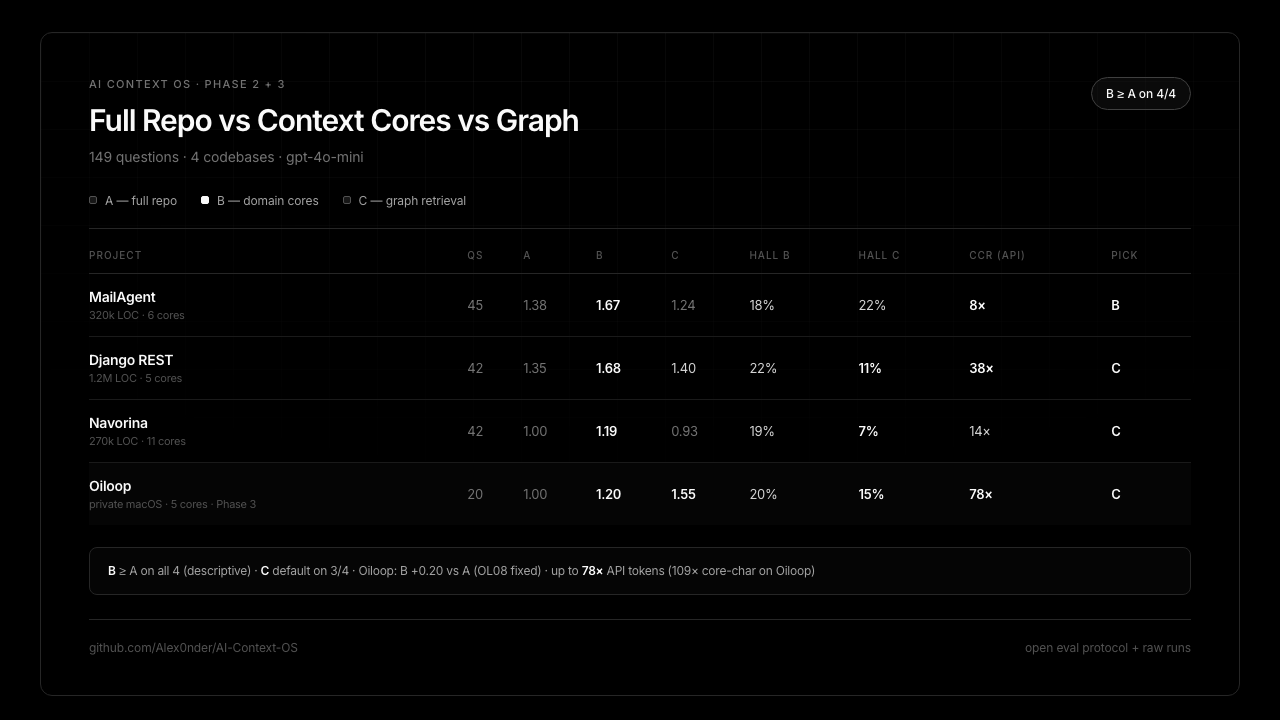
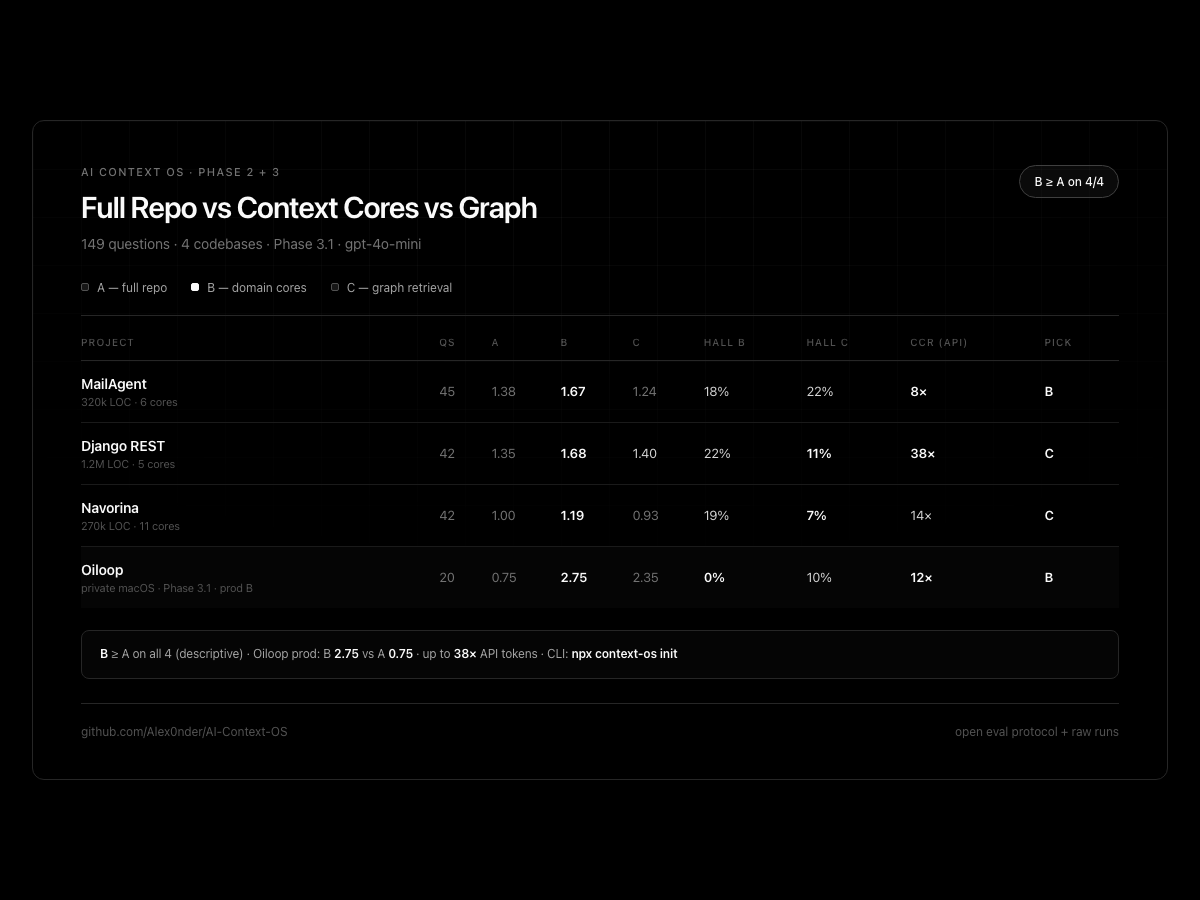
feat(cli): stats + cursor-rule commands, CI, updated twitter card
Add context size estimation and standalone Cursor rule install; refresh
Phase 3.1 Oiloop numbers on the twitter card PNG; GitHub Actions CLI smoke.

diff --git a/context-os/evaluations/phase-3-twitter-card.html b/context-os/evaluations/phase-3-twitter-card.html
@@ -155,7 +155,7 @@
         <div>
           <div class="eyebrow">AI Context OS · Phase 2 + 3</div>
           <div class="title">Full Repo vs Context Cores vs Graph</div>
-          <div class="meta">149 questions · 4 codebases · gpt-4o-mini</div>
+          <div class="meta">149 questions · 4 codebases · Phase 3.1 · gpt-4o-mini</div>
         </div>
         <div class="pill">B ≥ A on 4/4</div>
       </div>
@@ -215,22 +215,22 @@
             <td class="hi">C</td>
           </tr>
           <tr class="highlight">
-            <td><div class="name">Oiloop</div><div class="sub">private macOS · 5 cores · Phase 3</div></td>
+            <td><div class="name">Oiloop</div><div class="sub">private macOS · Phase 3.1 · prod B</div></td>
             <td class="dim">20</td>
-            <td class="dim">1.00</td>
-            <td class="hi">1.20</td>
-            <td class="hi">1.55</td>
-            <td>20%</td>
-            <td class="hi">15%</td>
-            <td class="hi">78×</td>
-            <td class="hi">C</td>
+            <td class="dim">0.75</td>
+            <td class="hi">2.75</td>
+            <td class="dim">2.35</td>
+            <td class="hi">0%</td>
+            <td>10%</td>
+            <td class="hi">12×</td>
+            <td class="hi">B</td>
           </tr>
         </tbody>
       </table>
 
       <div class="bar">
-        <strong>B</strong> ≥ A on all 4 (descriptive) · <strong>C</strong> default on 3/4 ·
-        Oiloop: B +0.20 vs A (OL08 fixed) · up to <strong>78×</strong> API tokens (109× core-char on Oiloop)
+        <strong>B</strong> ≥ A on all 4 (descriptive) · Oiloop prod: B <strong>2.75</strong> vs A <strong>0.75</strong> ·
+        up to <strong>38×</strong> API tokens · CLI: <strong>npx context-os init</strong>
       </div>
 
       <div class="foot">

diff --git a/packages/README.md b/packages/README.md
@@ -47,6 +47,19 @@ context-os route "How do we deploy?" --root .
 
 Checks manifest paths, core files exist, routing-map non-empty.
 
+### `context-os stats "<question>"`
+
+Sum character count of routed core `.md` files (~tokens ÷ 4). No API key.
+
+### `context-os cursor-rule`
+
+Install `.cursor/rules/context-os.mdc` on an existing repo (no scaffold overwrite).
+
+```bash
+context-os cursor-rule --target ~/Projects/MyApp
+context-os cursor-rule --variant oiloop --force
+```
+
 ### `context-os eval route`
 
 Routing F1 on `questions.json` — **no LLM, no API key**.

diff --git a/research/SYNTHESIS.md b/research/SYNTHESIS.md
@@ -101,4 +101,4 @@ Source: [human-blind-pilot-oiloop.csv](human-blind-pilot-oiloop.csv)
 
 - Phase 2: [PHASE-2-RESULTS.md](../context-os/evaluations/PHASE-2-RESULTS.md)
 - Phase 3.1: [PHASE-3-RESULTS.md](../context-os/evaluations/PHASE-3-RESULTS.md) · [PHASE-3.1-CLOSED.md](../experiments/oiloop/runs/run-1781660908/PHASE-3.1-CLOSED.md)
-- Visual: [phase-3-twitter-card.png](../context-os/evaluations/phase-3-twitter-card.png) *(update with Phase 3.1 numbers when posting)*
+- Visual: [phase-3-twitter-card.png](../context-os/evaluations/phase-3-twitter-card.png) (Phase 3.1 numbers)